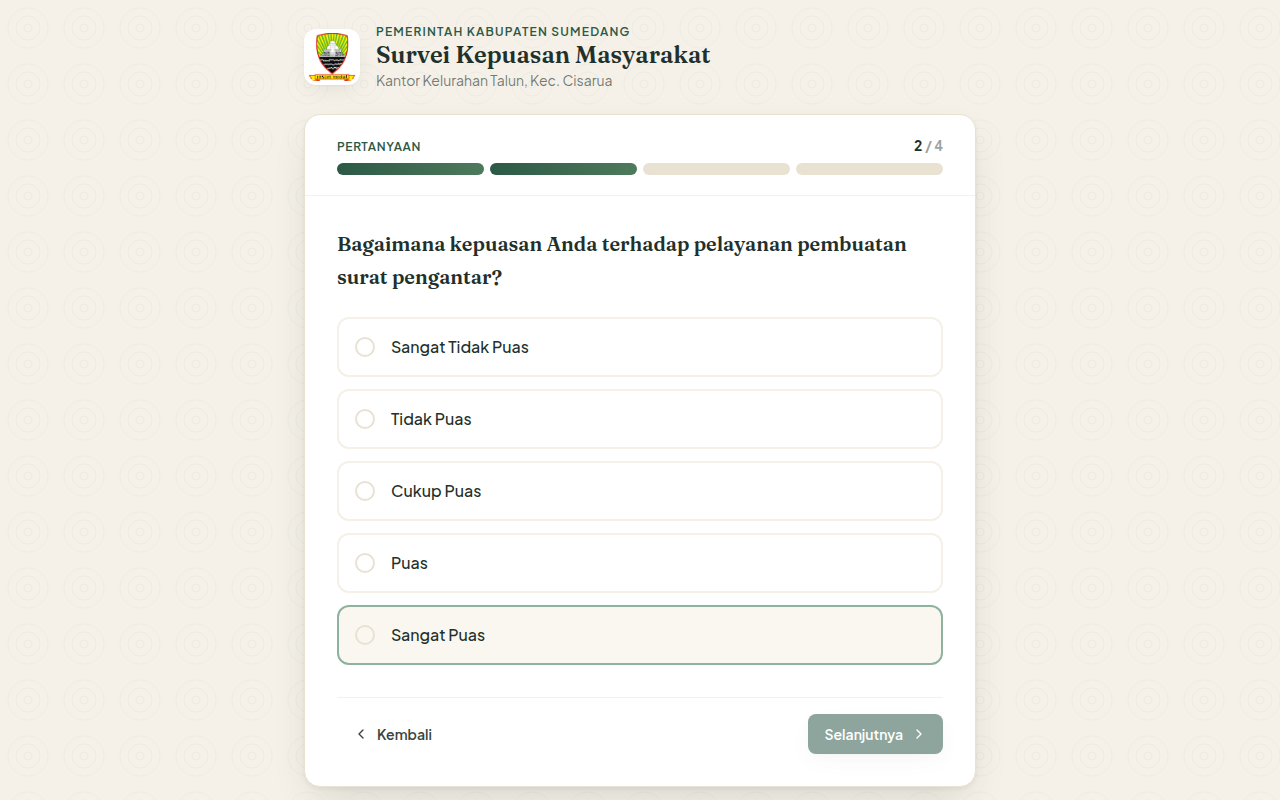
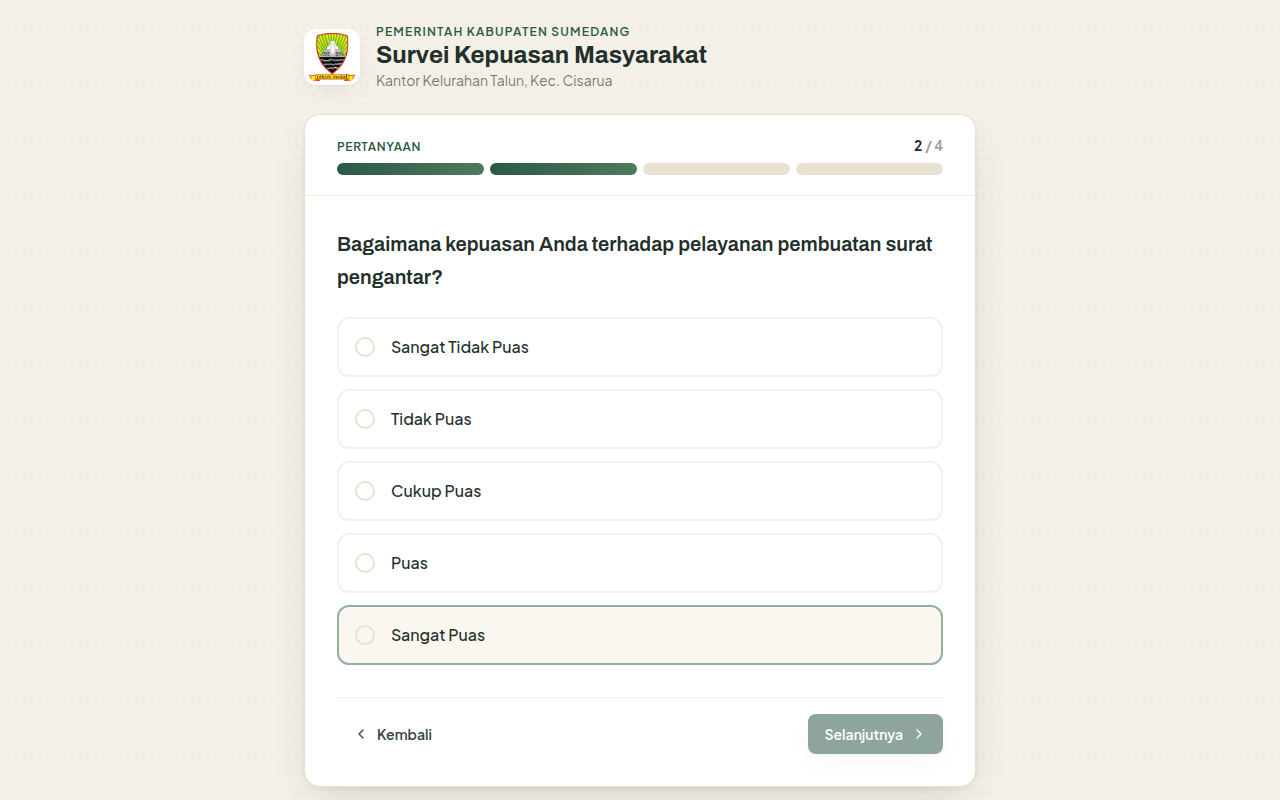
style: ganti font heading ke Archivo — lebih tegas dan formal
- Font display: Fraunces (serif lembut) -> Archivo (sans tegas, weight 600-800)
- Heading utama (Survei Kepuasan Masyarakat, Dashboard, dll): semibold -> bold
- Perbarui screenshots di docs/screenshots/

Changed region(s): [[0.25, 0.2812, 0.75, 0.375], [0.2812, 0.0625, 0.5625, 0.0938]]

diff --git a/src/pages/SurveiPage.tsx b/src/pages/SurveiPage.tsx
@@ -116,7 +116,7 @@ export default function SurveiPage() {
           <p className="text-xs font-semibold uppercase tracking-widest text-pine-600">
             Pemerintah Kabupaten Sumedang
           </p>
-          <h1 className="font-display text-2xl font-semibold leading-tight text-charcoal-900">
+          <h1 className="font-display text-2xl font-bold leading-tight text-charcoal-900">
             Survei Kepuasan Masyarakat
           </h1>
           <p className="text-sm text-charcoal-700/70">Kantor Kelurahan Talun, Kec. Cisarua</p>
@@ -146,7 +146,7 @@ export default function SurveiPage() {
               {step === "intro" && (
                 <motion.div key="intro" {...slide} className="space-y-6">
                   <div className="space-y-2">
-                    <h2 className="font-display text-2xl font-semibold text-charcoal-900">
+                    <h2 className="font-display text-2xl font-bold text-charcoal-900">
                       Selamat datang
                     </h2>
                     <p className="text-sm leading-relaxed text-charcoal-700/80">
@@ -362,7 +362,7 @@ export default function SurveiPage() {
                   <div className="mb-5 flex h-20 w-20 items-center justify-center rounded-full bg-pine-50">
                     <CheckCircle2 className="h-10 w-10 text-pine-600" strokeWidth={1.5} />
                   </div>
-                  <h2 className="font-display text-2xl font-semibold text-charcoal-900">
+                  <h2 className="font-display text-2xl font-bold text-charcoal-900">
                     Terima kasih!
                   </h2>
                   <p className="mt-2 max-w-sm text-sm leading-relaxed text-charcoal-700/80">

diff --git a/index.html b/index.html
@@ -6,7 +6,7 @@
     <link rel="preconnect" href="https://fonts.googleapis.com" />
     <link rel="preconnect" href="https://fonts.gstatic.com" crossorigin />
     <link
-      href="https://fonts.googleapis.com/css2?family=Fraunces:opsz,wght@9..144,500;9..144,600;9..144,700&family=Plus+Jakarta+Sans:wght@400;500;600;700&display=swap"
+      href="https://fonts.googleapis.com/css2?family=Archivo:wght@600;700;800&family=Plus+Jakarta+Sans:wght@400;500;600;700&display=swap"
       rel="stylesheet"
     />
     <meta name="viewport" content="width=device-width, initial-scale=1.0" />

diff --git a/src/pages/admin/LoginPage.tsx b/src/pages/admin/LoginPage.tsx
@@ -38,7 +38,7 @@ export default function LoginPage() {
             alt="Logo Kelurahan Talun"
             className="mx-auto mb-4 h-16 w-16 rounded-2xl bg-white p-1.5 shadow-card"
           />
-          <h1 className="font-display text-2xl font-semibold text-charcoal-900">
+          <h1 className="font-display text-2xl font-bold text-charcoal-900">
             Panel Administrator
           </h1>
           <p className="mt-1 text-sm text-charcoal-700/70">

diff --git a/src/pages/admin/QuestionPage.tsx b/src/pages/admin/QuestionPage.tsx
@@ -87,7 +87,7 @@ export default function QuestionPage() {
   return (
     <div className="space-y-8">
       <div>
-        <h1 className="font-display text-2xl font-semibold text-charcoal-900">Kelola Soal</h1>
+        <h1 className="font-display text-2xl font-bold text-charcoal-900">Kelola Soal</h1>
         <p className="mt-1 text-sm text-charcoal-700/70">
           Tambah, ubah, aktifkan, atau nonaktifkan pertanyaan survei
         </p>

diff --git a/src/pages/admin/DashboardPage.tsx b/src/pages/admin/DashboardPage.tsx
@@ -70,7 +70,7 @@ export default function DashboardPage() {
   return (
     <div className="space-y-8">
       <div>
-        <h1 className="font-display text-2xl font-semibold text-charcoal-900">Dashboard</h1>
+        <h1 className="font-display text-2xl font-bold text-charcoal-900">Dashboard</h1>
         <p className="mt-1 text-sm text-charcoal-700/70">
           Ringkasan data Survei Kepuasan Masyarakat
         </p>

diff --git a/src/pages/admin/FeedbackPage.tsx b/src/pages/admin/FeedbackPage.tsx
@@ -29,7 +29,7 @@ export default function FeedbackPage() {
   return (
     <div className="space-y-8">
       <div>
-        <h1 className="font-display text-2xl font-semibold text-charcoal-900">
+        <h1 className="font-display text-2xl font-bold text-charcoal-900">
           Kritik &amp; Saran
         </h1>
         <p className="mt-1 text-sm text-charcoal-700/70">

diff --git a/src/index.css b/src/index.css
@@ -1,7 +1,7 @@
 @import "tailwindcss";
 
 @theme {
-  --font-display: "Fraunces", ui-serif, Georgia, serif;
+  --font-display: "Archivo", ui-sans-serif, system-ui, sans-serif;
   --font-sans: "Plus Jakarta Sans", ui-sans-serif, system-ui, sans-serif;
 
   --color-pine-50: #f0f5f2;
